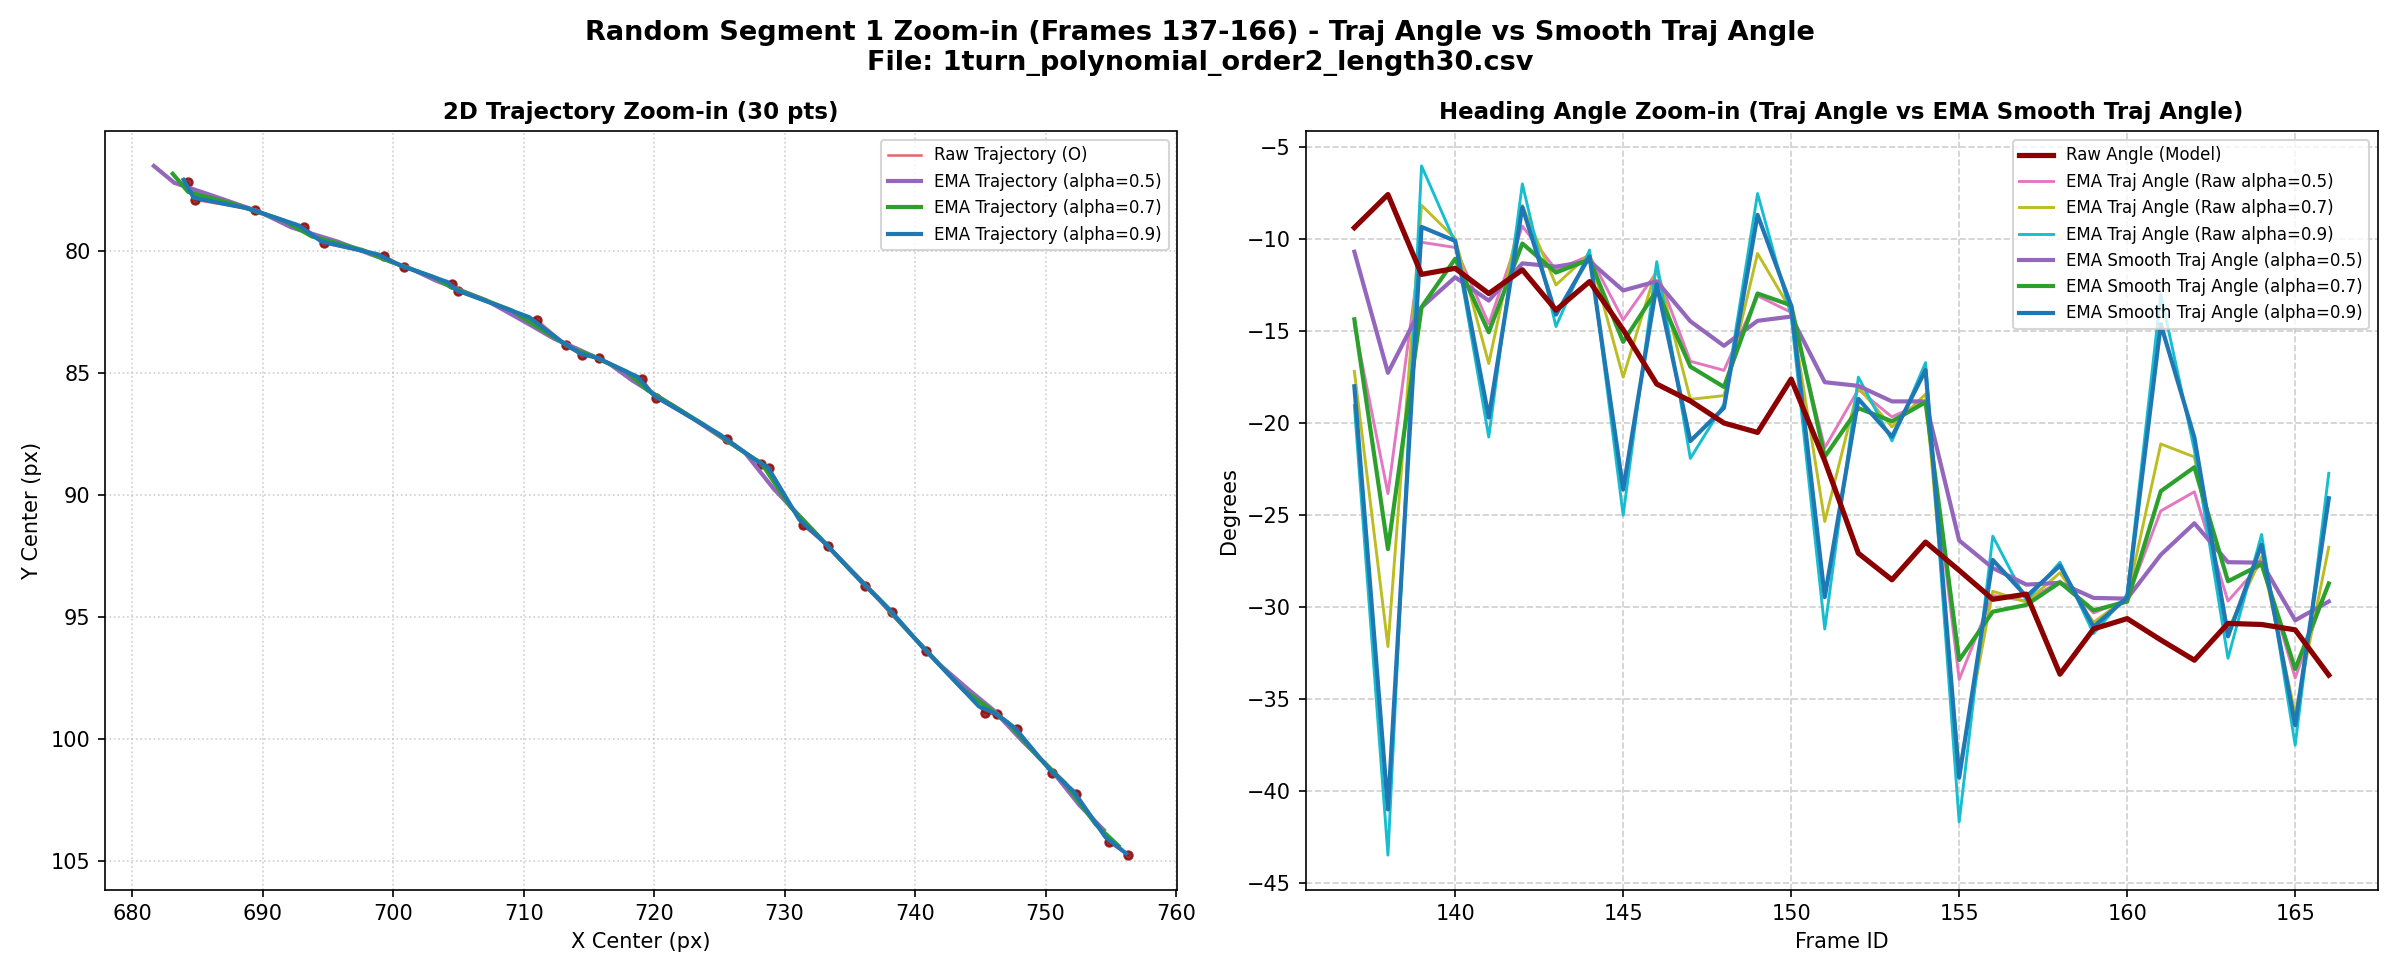
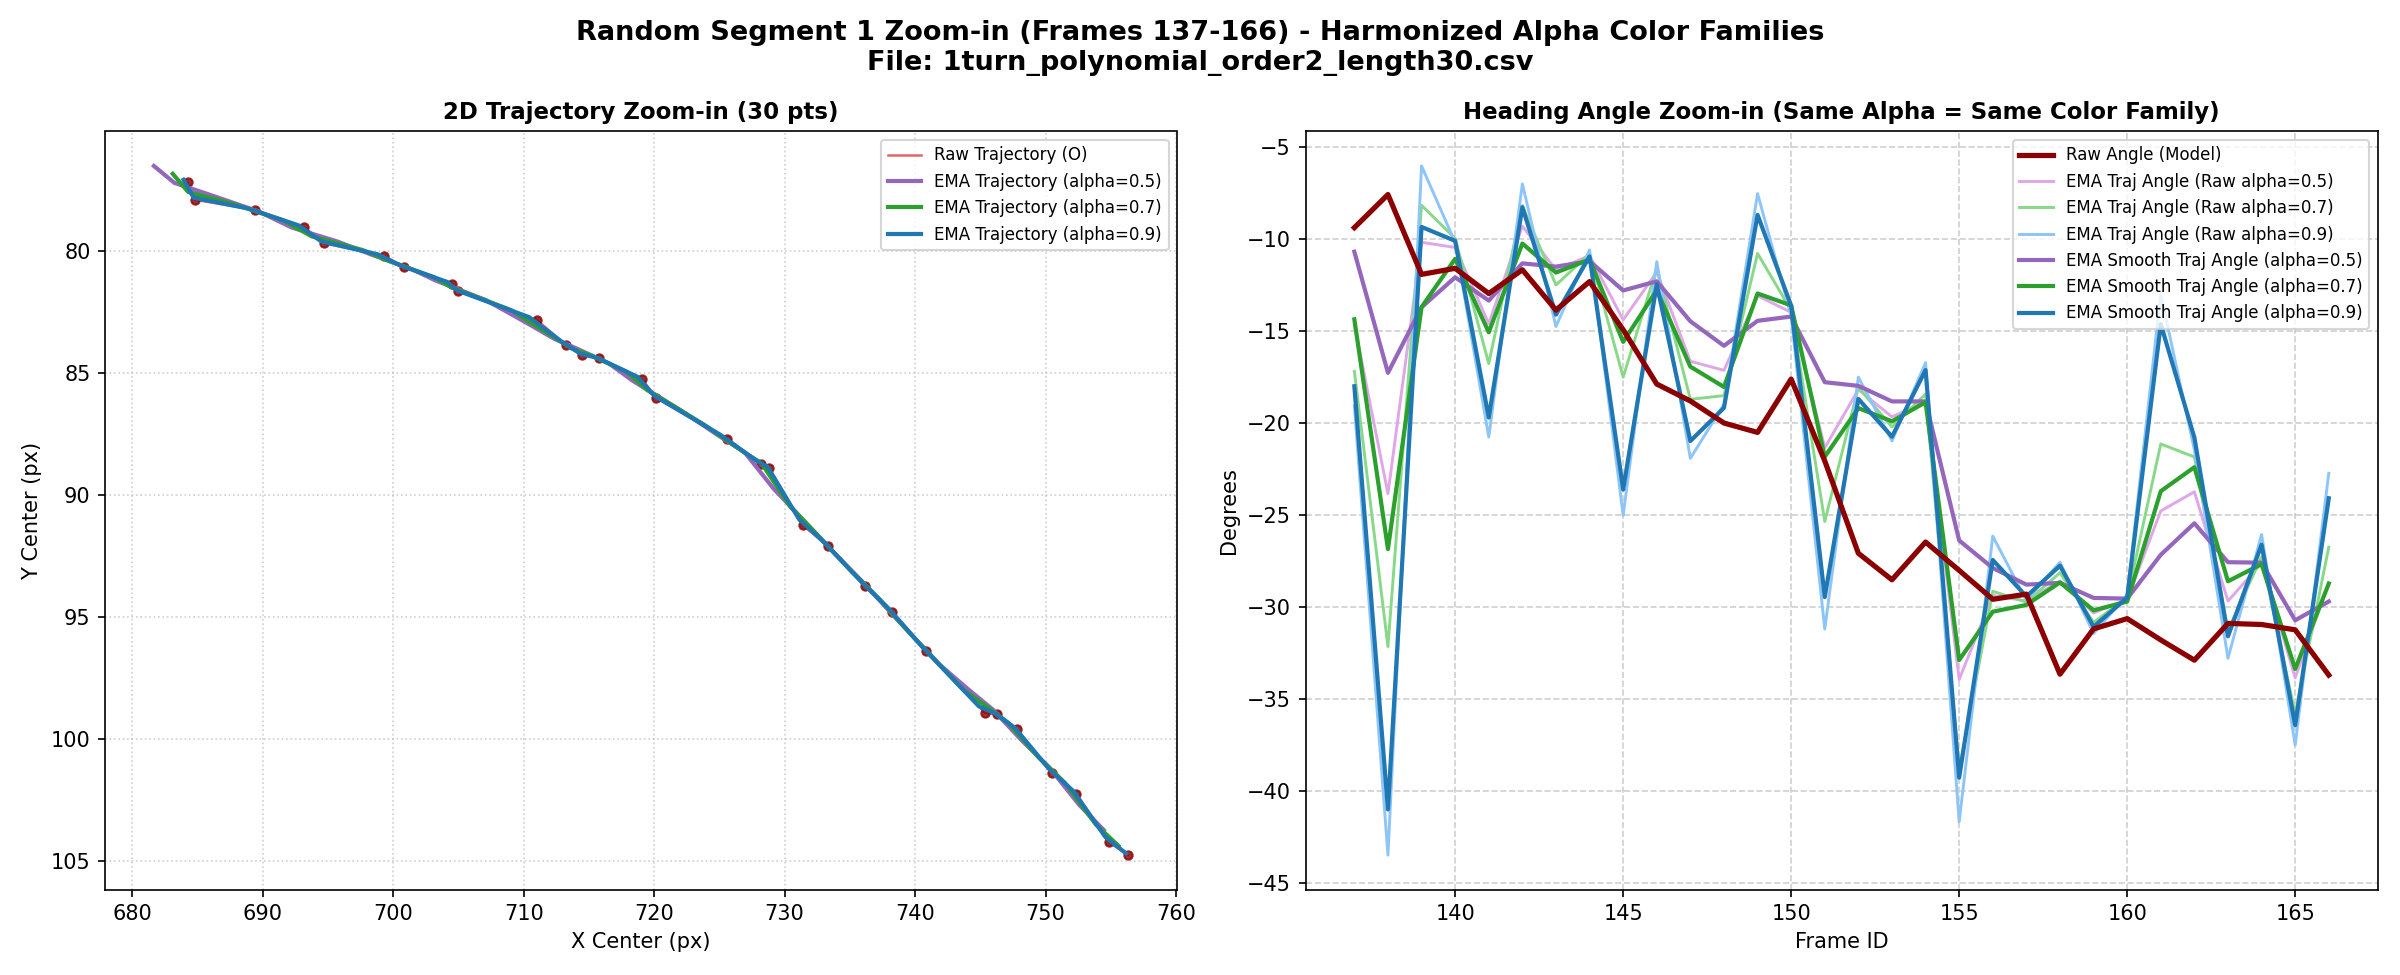
harmonize color families per alpha value for double smooth EMA tangent angle plots

diff --git a/260808/tools/plot_ema_clean.py b/260808/tools/plot_ema_clean.py
@@ -83,15 +83,20 @@ def run_clean_ema_experiments(csv_file: str, seg_length: int = 30, num_segments:
 
     # ONLY ALPHAS 0.5, 0.7, 0.9
     alphas = [0.5, 0.7, 0.9]
+
+    # Harmonized Color Palette per Alpha Family:
+    # - Alpha 0.5: Tím đậm (Smoothed) & Tím/Hồng nhạt (Unsmoothed Traj Angle)
+    # - Alpha 0.7: Xanh lá đậm (Smoothed) & Xanh lá nhạt (Unsmoothed Traj Angle)
+    # - Alpha 0.9: Xanh lam đậm (Smoothed) & Xanh lam nhạt (Unsmoothed Traj Angle)
     alpha_colors = {
-        0.5: '#9467bd', # Purple
-        0.7: '#2ca02c', # Green
-        0.9: '#1f77b4'  # Blue
+        0.5: '#9467bd', # Dark Purple
+        0.7: '#2ca02c', # Dark Green
+        0.9: '#1f77b4'  # Dark Blue
     }
     traj_angle_colors = {
-        0.5: '#e377c2', # Pink/Magenta (1st pass traj angle)
-        0.7: '#bcbd22', # Olive (1st pass traj angle)
-        0.9: '#17becf'  # Cyan (1st pass traj angle)
+        0.5: '#dfa6e8', # Light Purple/Pink (Same purple family as alpha 0.5)
+        0.7: '#87d987', # Light Green (Same green family as alpha 0.7)
+        0.9: '#8dc5f8'  # Light Blue (Same blue family as alpha 0.9)
     }
 
     # 1. Compute EMA streams for alphas 0.5, 0.7, 0.9
@@ -163,7 +168,7 @@ def run_clean_ema_experiments(csv_file: str, seg_length: int = 30, num_segments:
 
     for a in alphas:
         ema_traj_ang_unwrapped = align_phase(np.degrees(np.unwrap(np.radians(valid_df[f'ema_traj_angle_a{a}']))) , raw_unwrapped)
-        ax_ang.plot(valid_df['frame_id'], ema_traj_ang_unwrapped, color=traj_angle_colors[a], linewidth=1.6, linestyle='-', label=f'EMA Traj Tangent Angle (alpha={a})')
+        ax_ang.plot(valid_df['frame_id'], ema_traj_ang_unwrapped, color=traj_angle_colors[a], linewidth=1.4, linestyle='-', label=f'EMA Traj Tangent Angle (alpha={a})')
 
     ax_ang.set_title(f'Heading Angle Time-Series - Raw vs EMA Vector Angle vs EMA Traj Angle (alpha = 0.5, 0.7, 0.9)\nFile: {csv_path.name}', fontsize=14, fontweight='bold')
     ax_ang.set_xlabel('Frame ID')
@@ -177,7 +182,7 @@ def run_clean_ema_experiments(csv_file: str, seg_length: int = 30, num_segments:
     plt.close(fig_time)
 
     # ─────────────────────────────────────────────────────────────────────────
-    # SECTION 4 IMAGES: DOUBLE SMOOTH (Hidden EMA Vector Angle; Showing Both EMA Traj Angle & EMA Smooth Traj Angle)
+    # SECTION 4 IMAGES: DOUBLE SMOOTH (Harmonized Color Families for Same Alpha)
     # ─────────────────────────────────────────────────────────────────────────
     fig_traj4, ax_traj4 = plt.subplots(figsize=(10, 8), dpi=150)
     ax_traj4.plot(valid_df['x_center'], valid_df['y_center'], color='#d62728', linewidth=1.2, linestyle='-', alpha=0.6, label='Raw Trajectory (O)', zorder=1)
@@ -197,21 +202,24 @@ def run_clean_ema_experiments(csv_file: str, seg_length: int = 30, num_segments:
     fig_traj4.savefig(out_traj4_img, dpi=150)
     plt.close(fig_traj4)
 
-    # Time Series for Section 4 (Plotting Raw Angle, 1st pass EMA Traj Angle, AND 2nd pass EMA Smooth Traj Angle)
+    # Time Series for Section 4:
+    # - Same Alpha shares SAME color family:
+    #   * Dark Tone: EMA Smooth Traj Angle (2nd pass smoothed)
+    #   * Light Tone: EMA Traj Angle (1st pass unsmoothed)
     fig_time4, ax_ang4 = plt.subplots(figsize=(13, 7), dpi=150)
     ax_ang4.plot(valid_df['frame_id'], raw_unwrapped, color='#8b0000', linewidth=2.5, linestyle='-', alpha=1.0, label='Raw Angle (Model)', zorder=10)
 
-    # 1st Pass Tangent Angle from EMA Trajectory (Before 2nd pass smooth)
+    # 1st Pass Tangent Angle (Unsmoothed Traj Angle - Light Tone of the Alpha Color Family)
     for a in alphas:
         ema_traj_ang_unwrapped = align_phase(np.degrees(np.unwrap(np.radians(valid_df[f'ema_traj_angle_a{a}']))) , raw_unwrapped)
         ax_ang4.plot(valid_df['frame_id'], ema_traj_ang_unwrapped, color=traj_angle_colors[a], linewidth=1.4, linestyle='-', label=f'EMA Traj Angle (Raw alpha={a})')
 
-    # 2nd Pass EMA Smooth Trajectory Tangent Angle
+    # 2nd Pass EMA Smooth Trajectory Tangent Angle (Smoothed Traj Angle - Dark Tone of the Alpha Color Family)
     for a in alphas:
         ema_smooth_traj_unwrapped = align_phase(np.degrees(np.unwrap(np.radians(valid_df[f'ema_smooth_traj_angle_a{a}']))) , raw_unwrapped)
         ax_ang4.plot(valid_df['frame_id'], ema_smooth_traj_unwrapped, color=alpha_colors[a], linewidth=2.0, linestyle='-', label=f'EMA Smooth Traj Angle (alpha={a})')
 
-    ax_ang4.set_title(f'Heading Angle Time-Series - Raw vs EMA Traj Angle vs 2nd Pass Smooth Traj Angle\nFile: {csv_path.name}', fontsize=14, fontweight='bold')
+    ax_ang4.set_title(f'Heading Angle Time-Series - Raw vs EMA Traj Angle (Light) vs EMA Smooth Traj Angle (Dark)\nFile: {csv_path.name}', fontsize=14, fontweight='bold')
     ax_ang4.set_xlabel('Frame ID')
     ax_ang4.set_ylabel('Degrees (Unwrapped)')
     ax_ang4.grid(True, linestyle='--', alpha=0.6)
@@ -268,7 +276,7 @@ def run_clean_ema_experiments(csv_file: str, seg_length: int = 30, num_segments:
                 ax_sa.plot(seg['frame_id'], seg_ema_ang_unwrapped, color=alpha_colors[a], linewidth=2.0, linestyle='-', label=f'EMA Vector Angle (alpha={a})')
             for a in alphas:
                 seg_ema_traj_ang_unwrapped = align_phase(np.degrees(np.unwrap(np.radians(seg[f'ema_traj_angle_a{a}']))) , seg_raw_unwrapped)
-                ax_sa.plot(seg['frame_id'], seg_ema_traj_ang_unwrapped, color=traj_angle_colors[a], linewidth=1.6, linestyle='-', label=f'EMA Traj Tangent Angle (alpha={a})')
+                ax_sa.plot(seg['frame_id'], seg_ema_traj_ang_unwrapped, color=traj_angle_colors[a], linewidth=1.4, linestyle='-', label=f'EMA Traj Tangent Angle (alpha={a})')
 
             ax_sa.set_title(f'Heading Angle Zoom-in ({seg_length} pts)', fontsize=11, fontweight='bold')
             ax_sa.set_xlabel('Frame ID')
@@ -281,9 +289,9 @@ def run_clean_ema_experiments(csv_file: str, seg_length: int = 30, num_segments:
             fig_seg.savefig(out_seg_img, dpi=150)
             plt.close(fig_seg)
 
-            # Segment plot for Section 4 (SHOWING BOTH 1st Pass EMA Traj Angle AND 2nd Pass EMA Smooth Traj Angle)
+            # Segment plot for Section 4 (Harmonized Color Families per Alpha)
             fig_seg4, (ax_st4, ax_sa4) = plt.subplots(1, 2, figsize=(16, 6.5), dpi=150)
-            fig_seg4.suptitle(f'Random Segment {idx_seg+1} Zoom-in (Frames {frame_start}-{frame_end}) - Traj Angle vs Smooth Traj Angle\nFile: {csv_path.name}', fontsize=13, fontweight='bold')
+            fig_seg4.suptitle(f'Random Segment {idx_seg+1} Zoom-in (Frames {frame_start}-{frame_end}) - Harmonized Alpha Color Families\nFile: {csv_path.name}', fontsize=13, fontweight='bold')
 
             ax_st4.plot(seg['x_center'], seg['y_center'], color='#d62728', linewidth=1.2, linestyle='-', alpha=0.7, label='Raw Trajectory (O)', zorder=1)
             ax_st4.scatter(seg['x_center'], seg['y_center'], color='#8b0000', s=16, marker='o', alpha=0.8, zorder=2)
@@ -299,17 +307,17 @@ def run_clean_ema_experiments(csv_file: str, seg_length: int = 30, num_segments:
 
             ax_sa4.plot(seg['frame_id'], seg_raw_unwrapped, color='#8b0000', linewidth=2.5, linestyle='-', alpha=1.0, label='Raw Angle (Model)', zorder=10)
 
-            # 1st Pass Tangent Angle from EMA Trajectory (Before 2nd pass smooth)
+            # 1st Pass Tangent Angle (Light tone of alpha color family)
             for a in alphas:
                 seg_ema_traj_unwrapped = align_phase(np.degrees(np.unwrap(np.radians(seg[f'ema_traj_angle_a{a}']))) , seg_raw_unwrapped)
                 ax_sa4.plot(seg['frame_id'], seg_ema_traj_unwrapped, color=traj_angle_colors[a], linewidth=1.4, linestyle='-', label=f'EMA Traj Angle (Raw alpha={a})')
 
-            # 2nd Pass EMA Smooth Trajectory Tangent Angle
+            # 2nd Pass EMA Smooth Tangent Angle (Dark tone of alpha color family)
             for a in alphas:
                 seg_ema_smooth_traj_unwrapped = align_phase(np.degrees(np.unwrap(np.radians(seg[f'ema_smooth_traj_angle_a{a}']))) , seg_raw_unwrapped)
                 ax_sa4.plot(seg['frame_id'], seg_ema_smooth_traj_unwrapped, color=alpha_colors[a], linewidth=2.0, linestyle='-', label=f'EMA Smooth Traj Angle (alpha={a})')
 
-            ax_sa4.set_title(f'Heading Angle Zoom-in (Traj Angle vs EMA Smooth Traj Angle)', fontsize=11, fontweight='bold')
+            ax_sa4.set_title(f'Heading Angle Zoom-in (Same Alpha = Same Color Family)', fontsize=11, fontweight='bold')
             ax_sa4.set_xlabel('Frame ID')
             ax_sa4.set_ylabel('Degrees')
             ax_sa4.grid(True, linestyle='--', alpha=0.6)
@@ -320,11 +328,11 @@ def run_clean_ema_experiments(csv_file: str, seg_length: int = 30, num_segments:
             fig_seg4.savefig(out_seg4_img, dpi=150)
             plt.close(fig_seg4)
 
-    print(f"[SUCCESS] Đã lưu thành công bộ đồ thị Section 3 & Section 4 cho file {csv_path.name}")
+    print(f"[SUCCESS] Đã lưu thành công bộ đồ thị Section 3 & Section 4 với trường màu đồng bộ cho file {csv_path.name}")
 
 
 if __name__ == "__main__":
-    parser = argparse.ArgumentParser(description="Selective & Double Smooth EMA Plotting")
+    parser = argparse.ArgumentParser(description="Selective & Double Smooth EMA Plotting with Harmonized Color Palette")
     parser.add_argument("csv_file", type=str, help="Path to input benchmark CSV file")
     parser.add_argument("--seg-len", type=int, default=30, help="Segment length (default 30)")
     parser.add_argument("--num-segs", type=int, default=3, help="Number of random segments (default 3)")

diff --git a/260808/Readme2.md b/260808/Readme2.md
@@ -5,7 +5,8 @@
 - Chỉ giữ lại dữ liệu gốc **Raw** và các đường **EMA với hệ số alpha = 0.5, 0.7, 0.9**.
 - Bổ sung đường biểu đồ góc tiếp tuyến được tính trực tiếp từ tọa độ mượt EMA của quỹ đạo.
 - Tạm thời ẩn đường mượt `EMA Angle` của raw_angle.
-- Thực hiện làm mượt EMA Lần 2 trên đường góc tiếp tuyến tính từ các đường mượt EMA quỹ đạo với hệ số alpha đồng bộ tương ứng (giữ nguyên đường góc tiếp tuyến trước khi mượt Lần 2 để so sánh).
+- Thực hiện làm mượt EMA Lần 2 trên đường góc tiếp tuyến tính từ các đường mượt EMA quỹ đạo với hệ số alpha đồng bộ tương ứng.
+- **Chuẩn hóa trường màu đồng bộ theo từng hệ số alpha:** Cùng 1 mức alpha sẽ dùng chung 1 họ màu (Tông đậm = Đã mượt Lần 2; Tông nhạt = Chưa mượt Lần 2).
 
 ---
 
@@ -104,13 +105,16 @@ python tools/plot_ema_clean.py benchmark/3turn_polynomial_order2_length30.csv --
 
 ### 4.1. Biểu đồ Smooth EMA Lần 2 trên Góc Tiếp tuyến Quỹ đạo
 
-Tạm thời ẩn đường mượt góc `EMA Angle` trực tiếp từ raw_angle của model. So sánh đường **Raw Angle (Model)** với **Góc tiếp tuyến trước khi mượt Lần 2 (`EMA Traj Angle`)** và **Góc tiếp tuyến sau khi mượt Lần 2 (`EMA Smooth Traj Angle`)** đối với các hệ số alpha = 0.5, 0.7, 0.9.
+Tạm thời ẩn đường mượt góc `EMA Angle` trực tiếp từ raw_angle của model. So sánh đường **Raw Angle (Model)** với **Góc tiếp tuyến chưa mượt Lần 2 (`EMA Traj Angle`)** và **Góc tiếp tuyến đã mượt Lần 2 (`EMA Smooth Traj Angle`)** với **trường màu đồng bộ cho từng hệ số alpha**:
+- **Alpha = 0.5 (Trường màu Tím):** `EMA Traj Angle` (Tím/Hồng nhạt), `EMA Smooth Traj Angle` (Tím đậm).
+- **Alpha = 0.7 (Trường màu Xanh lá):** `EMA Traj Angle` (Xanh lá nhạt), `EMA Smooth Traj Angle` (Xanh lá đậm).
+- **Alpha = 0.9 (Trường màu Xanh lam):** `EMA Traj Angle` (Xanh lam nhạt), `EMA Smooth Traj Angle` (Xanh lam đậm).
 
 #### a) Leanbot chạy 3 vòng (`3turn`)
 ![3turn Double Smooth Trajectory](benchmark/3turn_ema_double_smooth_2d_trajectory.png)
 ![3turn Double Smooth Time Series](benchmark/3turn_ema_double_smooth_time_series.png)
 
-##### Các đoạn Zoom-in 30 điểm ngẫu nhiên (Raw Angle vs EMA Traj Angle vs EMA Smooth Traj Angle):
+##### Các đoạn Zoom-in 30 điểm ngẫu nhiên (Same Alpha = Same Color Family):
 ![3turn Double Smooth Seg 1](benchmark/3turn_ema_double_smooth_seg1.png)
 ![3turn Double Smooth Seg 2](benchmark/3turn_ema_double_smooth_seg2.png)
 ![3turn Double Smooth Seg 3](benchmark/3turn_ema_double_smooth_seg3.png)
@@ -121,7 +125,7 @@ Tạm thời ẩn đường mượt góc `EMA Angle` trực tiếp từ raw_angl
 ![2turn Double Smooth Trajectory](benchmark/2turn_ema_double_smooth_2d_trajectory.png)
 ![2turn Double Smooth Time Series](benchmark/2turn_ema_double_smooth_time_series.png)
 
-##### Các đoạn Zoom-in 30 điểm ngẫu nhiên (Raw Angle vs EMA Traj Angle vs EMA Smooth Traj Angle):
+##### Các đoạn Zoom-in 30 điểm ngẫu nhiên (Same Alpha = Same Color Family):
 ![2turn Double Smooth Seg 1](benchmark/2turn_ema_double_smooth_seg1.png)
 ![2turn Double Smooth Seg 2](benchmark/2turn_ema_double_smooth_seg2.png)
 ![2turn Double Smooth Seg 3](benchmark/2turn_ema_double_smooth_seg3.png)
@@ -132,7 +136,7 @@ Tạm thời ẩn đường mượt góc `EMA Angle` trực tiếp từ raw_angl
 ![1turn Double Smooth Trajectory](benchmark/1turn_ema_double_smooth_2d_trajectory.png)
 ![1turn Double Smooth Time Series](benchmark/1turn_ema_double_smooth_time_series.png)
 
-##### Các đoạn Zoom-in 30 điểm ngẫu nhiên (Raw Angle vs EMA Traj Angle vs EMA Smooth Traj Angle):
+##### Các đoạn Zoom-in 30 điểm ngẫu nhiên (Same Alpha = Same Color Family):
 ![1turn Double Smooth Seg 1](benchmark/1turn_ema_double_smooth_seg1.png)
 ![1turn Double Smooth Seg 2](benchmark/1turn_ema_double_smooth_seg2.png)
 ![1turn Double Smooth Seg 3](benchmark/1turn_ema_double_smooth_seg3.png)
